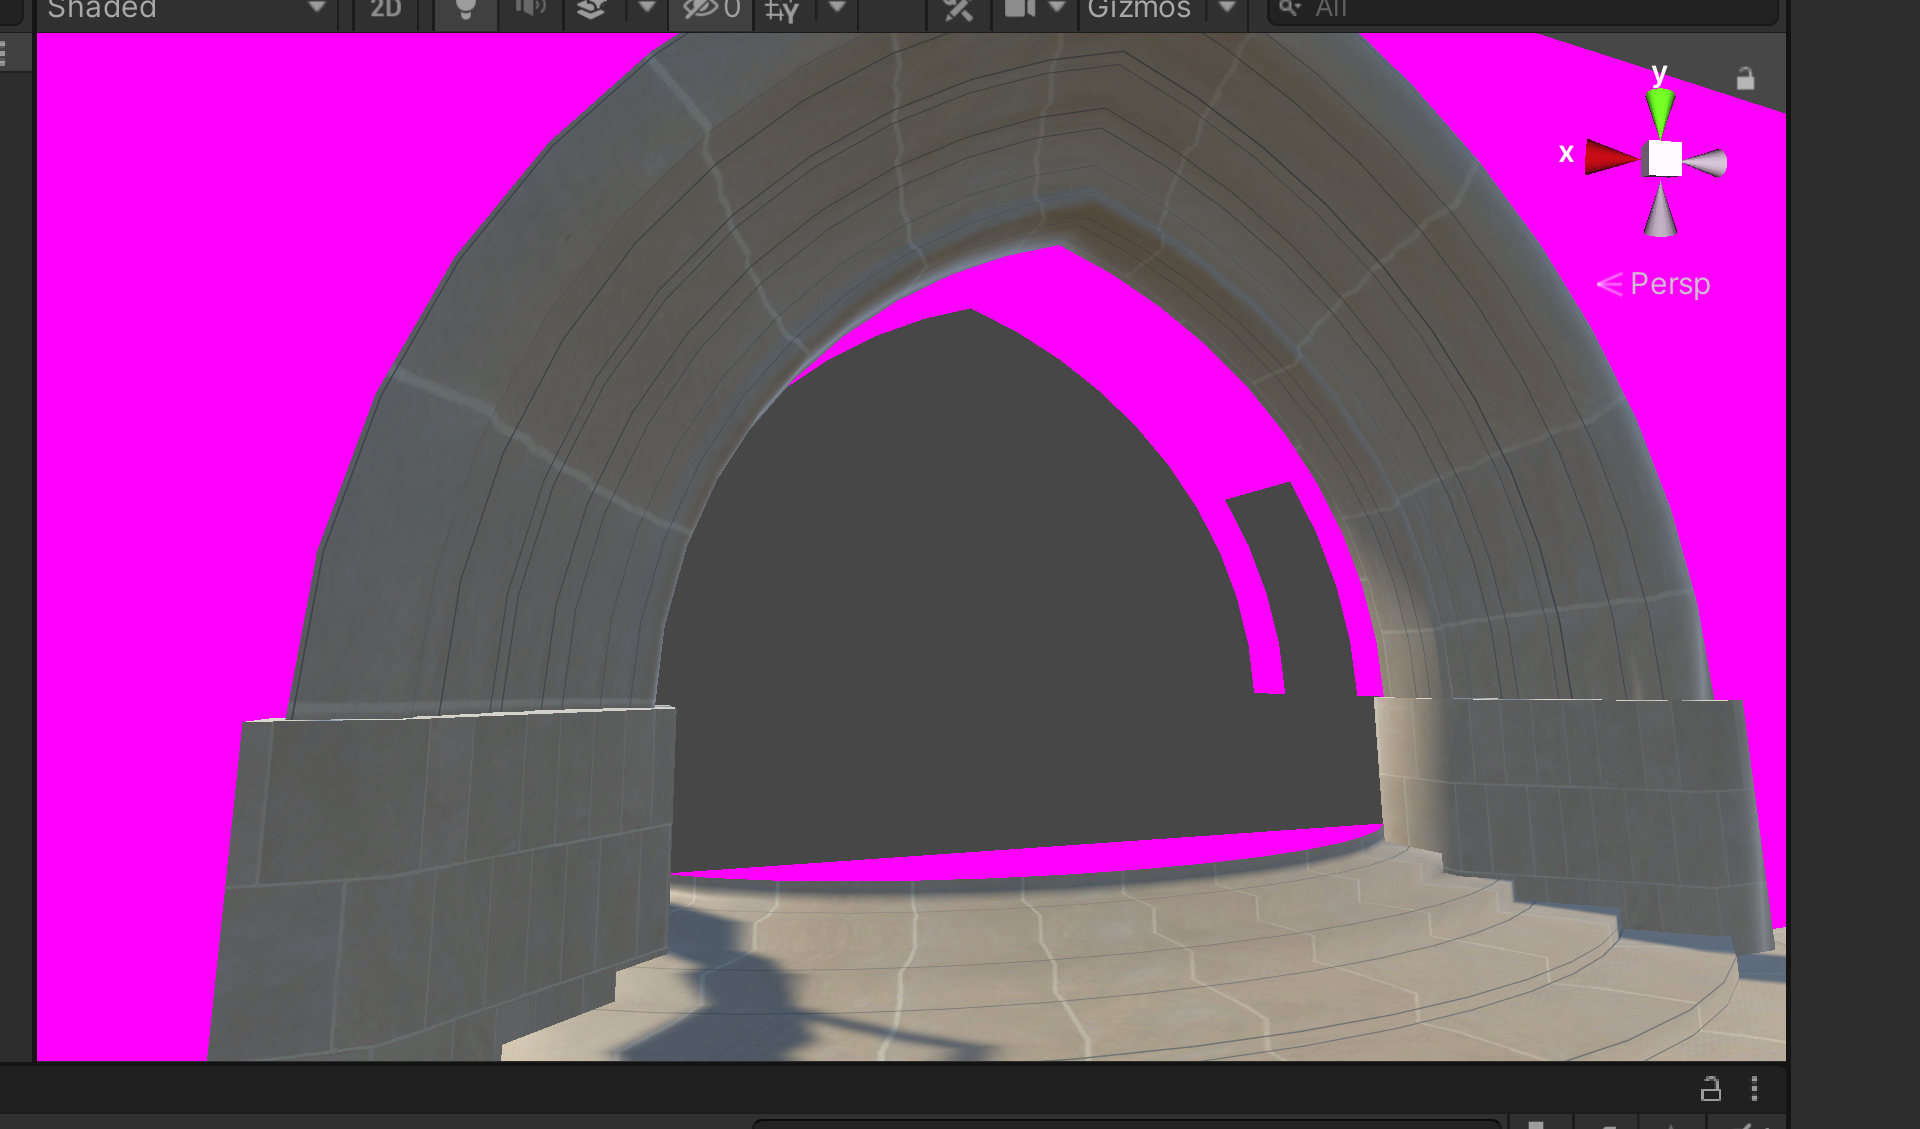
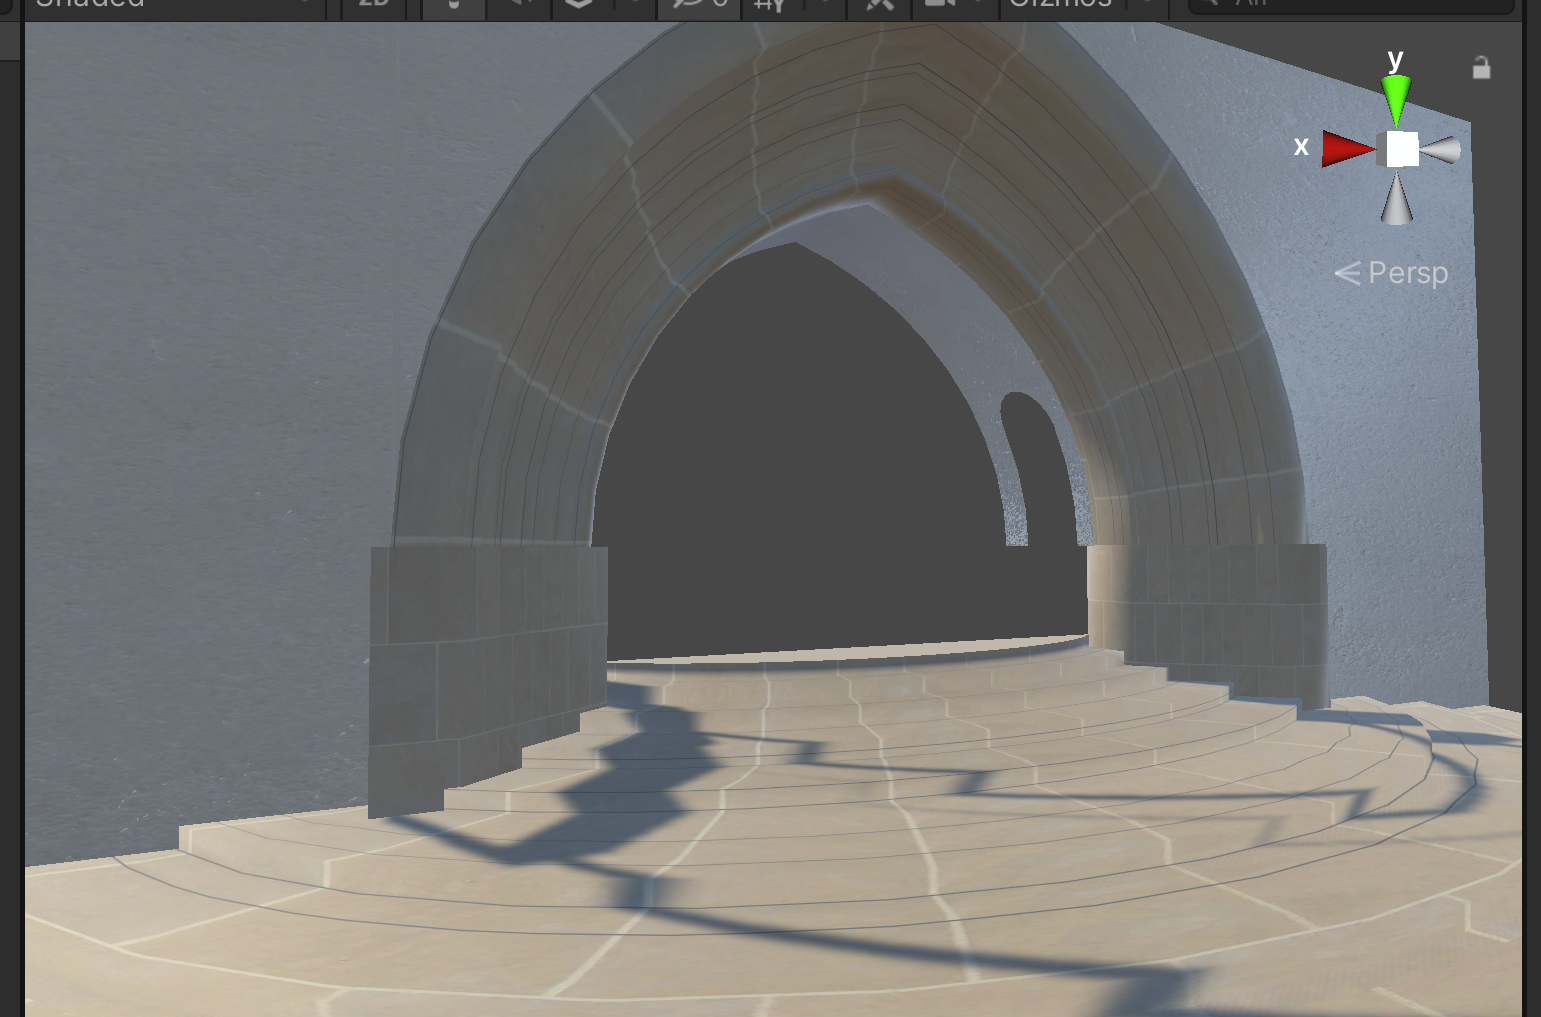
Add files via upload

diff --git a/WhiteWall1.cs b/WhiteWall1.cs
@@ -22,6 +22,7 @@ public class WhiteWall1 : MonoBehaviour
     //Define parameters needed to create object
     const float PI = 3.1415926535897931f;
     const int N = 10;
+    const int NN = 6;
     float delta_theta = (PI / 2) / N;
     public int rot = 0;
 
@@ -30,7 +31,7 @@ public class WhiteWall1 : MonoBehaviour
     GameObject gog;// = new GameObject("Plane");
     void Awake()
     {
-        gog = MakeDiscreteProceduralGrid(Pos1, Pos2, Pos3, c1, c2, c3, c4, s, t, delta_theta, N, true, mat, rot);
+        gog = MakeDiscreteProceduralGrid(Pos1, Pos2, Pos3, c1, c2, c3, c4, s, t, delta_theta, N, NN, true, mat, rot);
     }
 
 
@@ -111,7 +112,7 @@ public class WhiteWall1 : MonoBehaviour
         return y;
     }
 
-    public static GameObject MakeDiscreteProceduralGrid(float Pos1, float Pos2, float Pos3, float c1, float c2, float c3, float c4, float s, float t, float delta_theta, int N, bool collider, Material mat, int rot)
+    public static GameObject MakeDiscreteProceduralGrid(float Pos1, float Pos2, float Pos3, float c1, float c2, float c3, float c4, float s, float t, float delta_theta, int N, int NN, bool collider, Material mat, int rot)
     {
         GameObject go = new GameObject("Plane");
         MeshFilter mf = go.AddComponent(typeof(MeshFilter)) as MeshFilter;
@@ -129,9 +130,9 @@ public class WhiteWall1 : MonoBehaviour
         triangles = new int[12 * N+1000];
         uvs = new Vector2[3 * (2 * N + 1)];
         */
-        vertices = new Vector3[2 * (2 * N + 1) + 4 * ( N / 2 + 1)];
-        triangles = new int[3 * (2 * N + 1) + 3 * (2 * N + 1) + 3 * (2 * N + 1)];
-        uvs = new Vector2[2 * (2 * N + 1) + 4 * (N / 2 + 1)];
+        vertices = new Vector3[2 * (2 * N + 1) + 4 * ( N / 2 + 1) + 2 * (NN + 1)];
+        triangles = new int[3 * (2 * N + 1) + 3 * (2 * N + 1) + 3 * (2 * N + 1) + 3 * NN + 3 * NN];
+        uvs = new Vector2[2 * (2 * N + 1) + 4 * (N / 2 + 1) + 2 * (NN + 1)];
 
 
         float angle1 = -45f / 180f * PI;
@@ -143,7 +144,8 @@ public class WhiteWall1 : MonoBehaviour
         float dz = 0.0625f;
 
         int itsize1 = 0;
-
+        
+        // Main Arch
         for (int i = 0; i < 2 * N + 1; i++)
         {
             x = 0.7f * c1 * Mathf.Cos(PI - i * delta_theta);
@@ -158,6 +160,9 @@ public class WhiteWall1 : MonoBehaviour
             vertices[i + itsize1] = Arch_eq_6_A(x, z, 0.7f * c1, 0.7f * c2, angle) + POS;
         }
 
+
+        // 4 N + 2
+
         itsize1 = 2 * N + 1 + itsize1;
         for (int i = 0; i < N / 2 - 0; i++)
         {
@@ -165,14 +170,87 @@ public class WhiteWall1 : MonoBehaviour
             z = 0.0f - dz - dz - dz - dz - dz * 0.3333333f - dz * 2.5f - 2f * dz;
             vertices[i + itsize1] = Arch_eq_6_A(x, z, 0.7f * c1, 0.7f * c2, angle) + POS;
         }
+        Vector3 vertL = vertices[N / 2 - 1 + itsize1];// 4 N +2 +N/2 - 1
 
-        itsize1 = N / 2 + 1 + itsize1 - 0;
+        itsize1 = N / 2 + 0 + itsize1 - 0; // 4 N + 2 + N / 2
         for (int i = 0; i < N / 2 - 0; i++)
         {
             x = 0.7f * c1 * Mathf.Cos(PI - i * delta_theta);
             z = 0.0f - dz - dz - dz - dz - dz * 0.3333333f - dz * 2.5f - 6f * dz;
             vertices[i + itsize1] = Arch_eq_6_A(x, z, 0.7f * c1, 0.7f * c2, angle) + POS;
         }
+        Vector3 vertR = vertices[N / 2 - 1 + itsize1]; // 4 N + 2 + N / 2 + N / 2 - 1 = 5 N + 1.
+
+        //        float zCen = 0.0f - dz - dz - dz - dz - dz * 0.3333333f - dz * 2.5f - 4f * dz;
+        x = 0.7f * c1 * Mathf.Cos(PI - (N / 2 + 2) * delta_theta);
+        z = 0.0f - dz - dz - dz - dz - dz * 0.3333333f - dz * 2.5f - 4f * dz;
+        Vector3 Cen = Arch_eq_6_A(x, z, 0.7f * c1, 0.7f * c2, angle) + POS;
+        float rad = 2 * dz;
+
+        itsize1 = N / 2 + 0 + itsize1;
+
+
+        int CircIndexL = itsize1;
+        float y;
+        float x1;
+        float x2;
+        Vector3 temp;
+
+        // For Left Circle.
+        for (int i = 0; i < NN - 0; i++)
+        {
+            x1 = 0.7f * c1 * Mathf.Cos(PI - (N / 2 - 2) * delta_theta);
+            x2 = 0.7f * c1 * Mathf.Cos(PI - (N / 2 - 1) * delta_theta);
+
+            z = (2 * dz) * Mathf.Cos(0.5f * PI / (NN - 1) * i) + 0.0f - dz - dz - dz - dz - dz * 0.3333333f - dz * 2.5f - 4f * dz;
+
+            temp = Arch_eq_6_A(x1, -4f * dz - dz * 0.3333333f - dz * 2.5f - 4f * dz, 0.7f * c1, 0.7f * c2, angle);
+
+            y = (0.002f + 2f * dz) * Mathf.Sin(0.5f * PI / (float)(NN - 1) * i) + temp[1];
+
+            float factor = Mathf.Sin(0.5f * PI / (float)(NN - 1) * i);
+
+            x = x1 * (1f - factor) + x2 * (factor);
+
+            vertices[i + itsize1] = new Vector3(x, y, z) + POS;
+        }
+
+
+        itsize1 = NN + itsize1;
+        int Lindex = itsize1;
+        vertices[0 + itsize1] = vertL;
+
+
+        itsize1 = itsize1 + 1;
+
+        int CircIndexR = itsize1;
+        // For Right Circle.
+        for (int i = 0; i < NN - 0; i++)
+        {
+            x1 = 0.7f * c1 * Mathf.Cos(PI - (N / 2 - 2) * delta_theta);
+            x2 = 0.7f * c1 * Mathf.Cos(PI - (N / 2 - 1) * delta_theta);
+
+            z = (2 * dz) * Mathf.Cos(PI - 0.5f * PI / (NN - 1) * i) + 0.0f - dz - dz - dz - dz - dz * 0.3333333f - dz * 2.5f - 4f * dz;
+
+            temp = Arch_eq_6_A(x1, -4f * dz - dz * 0.3333333f - dz * 2.5f - 4f * dz, 0.7f * c1, 0.7f * c2, angle);
+
+            y = (0.002f + 2f * dz) * Mathf.Sin(0.5f * PI / (float)(NN - 1) * i) + temp[1];
+
+            float factor = Mathf.Sin(0.5f * PI / (float)(NN - 1) * i);
+
+            x = x1 * (1f - factor) + x2 * (factor);
+
+            vertices[i + itsize1] = new Vector3(x, y, z) + POS;
+        }
+
+        itsize1 = NN + itsize1;
+        int Rindex = itsize1;
+        vertices[0 + itsize1] = vertR; // Correct this to -1
+
+
+
+
+
 
 
         // First Top arch part (Right Side)
@@ -184,7 +262,7 @@ public class WhiteWall1 : MonoBehaviour
             triangles[i3 + 2] = i + 1;
         }
 
-        int skip = 3 * (2 * N - N / 2 + 1);
+        int skip = 3 * (2 * N - N / 2 + 1 + 0);//+1?
         for (int i = N / 2 - 1; i < 2 * N + 0; i++)
         {
             int i3 = 3 * (i - (N / 2 - 1));
@@ -193,7 +271,7 @@ public class WhiteWall1 : MonoBehaviour
             triangles[i3 + 2 + skip] = 2 * N + i + 2;
         }
 
-
+        //
         skip = 3 * (2 * N - N / 2 + 1) + skip;
         for (int i = 0; i < N / 2 - 1; i++)
         {
@@ -211,23 +289,43 @@ public class WhiteWall1 : MonoBehaviour
             triangles[i3 + 1 + skip] = i + 0;
             triangles[i3 + 2 + skip] = 4 * N + i + 3;
         }
-
-        skip = 3 * ( N / 2 - 0) + skip;
+        //
+        
+        skip = 3 * ( N / 2 - 1) + skip;
         for (int i = 0; i < N / 2 - 1; i++)
         {
             int i3 = 3 * i;
-            triangles[i3 + skip] = 4 * N + N / 2 + N / 2 - 2 + i;
+            triangles[i3 + skip] = 5 * N - 2 + i - 1;
             triangles[i3 + 1 + skip] = 2 * N + i + 1;
             triangles[i3 + 2 + skip] = 2 * N + i + 2;
         }
 
-        skip = 3 * (N / 2 - 0) + skip;
+        skip = 3 * (N / 2 - 1) + skip;
         for (int i = 0; i < N / 2 - 1; i++)
         {
             int i3 = 3 * i;
-            triangles[i3 + skip]     = 4 * N + N / 2 + N / 2 - 2 + i + 1;
-            triangles[i3 + 1 + skip] = 4 * N + N / 2 + N / 2 - 2 + i + 0;
+            triangles[i3 + skip]     = 5 * N - 2 + i + 0;
+            triangles[i3 + 1 + skip] = 5 * N - 2 + i - 1;
             triangles[i3 + 2 + skip] = 2 * N + i + 2;
+        }
+        
+        //
+        skip = 3 * (N / 2 - 1) + skip;
+        for (int i = 0; i < NN; i++)
+        {
+            int i3 = 3 * i;
+            triangles[i3 + skip] = CircIndexL + i + 1;
+            triangles[i3 + 1 + skip] = Lindex;
+            triangles[i3 + 2 + skip] = CircIndexL + i + 0;
+        }
+        
+        skip = 3 * NN + skip;
+        for (int i = 0; i < NN; i++)
+        {
+            int i3 = 3 * i;
+            triangles[i3 + skip] = CircIndexR + i + 0;
+            triangles[i3 + 1 + skip] = Rindex;
+            triangles[i3 + 2 + skip] = CircIndexR + i + 1;
         }
 
 
@@ -238,12 +336,86 @@ public class WhiteWall1 : MonoBehaviour
             + 0.05f * c1 + Mathf.Sqrt(Mathf.Pow(dz * 0.33333f, 2) + Mathf.Pow(0.0125f * c1, 2)) + 0.0125f * c1 + Mathf.Sqrt(Mathf.Pow(dz * 0.33333f, 2) + Mathf.Pow(0.0125f * c1, 2))
             + 0.025f * c1 + 2f * dz;
 
+        for (int i = 0; i < 2 * N + 1; i++)
+        {
+//            x = (Mathf.Cos(PI - (float)i * delta_theta) + 1.000005f) * 0.49995f;
+            x = (float)i / (float)(2.00001f * N);
+            uvs[i] = new Vector2(x, 0f);
+//            uvs[i] = new Vector2(0f, x);
+        }
+        int uvIndex = 2 * N + 1;
+        for (int i = 0; i < 2 * N + 1; i++)
+        {
+//            x = (Mathf.Cos(PI - (float)i * delta_theta) + 1.000005f) * 0.49995f;
+            x = (float)i / (float)(2.00001f * N);
+            uvs[i + uvIndex] = new Vector2(x, 0.25f);
+        }
+        uvIndex = 2 * N + 1 + uvIndex;
+
+        float saveUV = ((float) N / 2f)/ ((float)N * 2f);
+
+        
+        for (int i = 0; i < N / 2; i++)
+        {
+            //            x = (Mathf.Cos(PI - (float)i * delta_theta) + 1.000005f) * 0.49995f;
+            //x = (float)(i + 1f + 1.5f * N) / (float)(2.00001f * N);
+            x = (float)(i) / (float)(2.00001f * N);
+            //            uvs[i + uvIndex] = new Vector2(x, 0.1875f);
+            uvs[i + uvIndex] = new Vector2(x, 0.0625f);
+        }
 
 
 
 
+        uvIndex = N / 2 + uvIndex + 0;
+
+        float interpx2 = (4f) / (2.00001f * (float)N);
+        float interpx1 = (3f) / (2.00001f * (float)N);
 
 
+        for (int i = 0; i < N / 2; i++)
+        {
+            //            x = (Mathf.Cos(PI - (float)i * delta_theta) + 1.000005f) * 0.49995f;
+            //x = (float)(i + 1f + 1.5f * N) / (float)(2.00001f * N);
+            x = (float)(i) / (float)(2.00001f * N);
+            //            uvs[i + uvIndex] = new Vector2(x, 0.0625f);
+            uvs[i + uvIndex] = new Vector2(x, 0.1875f);
+        }
+        uvIndex = N / 2 + uvIndex + 0;
+
+        uvs[0 + uvIndex] = new Vector2(interpx1 * 1.0f + interpx2 * 0.0f , 0.0625f);
+        uvs[1 + uvIndex] = new Vector2(interpx1 * 0.67f + interpx2 * 0.33f  , 0.125f * 0.1f + 0.0625f * 0.9f);
+        uvs[2 + uvIndex] = new Vector2(interpx1 * 0.45f + interpx2 * 0.55f  , 0.125f * 0.25f + 0.0625f * 0.75f);
+        uvs[3 + uvIndex] = new Vector2(interpx1 * 0.25f + interpx2 * 0.75f  , 0.125f * 0.5f + 0.0625f * 0.5f);
+        uvs[4 + uvIndex] = new Vector2(interpx1 * 0.1f + interpx2 * 0.9f    , 0.125f * 0.77f + 0.0625f * 0.23f);
+        uvs[5 + uvIndex] = new Vector2(interpx1 * (0.0f) + interpx2 * 1.0f , 0.125f * 1f + 0.0625f * 0f);
+
+        uvs[6 + uvIndex] = new Vector2(interpx1 * (0.0f) + interpx2 * 1.0f, 0.0625f);
+
+
+        uvs[7 + uvIndex] = new Vector2(interpx1 * 1.0f + interpx2 * 0.0f, 0.1875f);
+        uvs[8 + uvIndex] = new Vector2(interpx1 * 0.67f + interpx2 * 0.33f, 0.125f * 0.1f + 0.1875f * 0.9f);
+        uvs[9 + uvIndex] = new Vector2(interpx1 * 0.45f + interpx2 * 0.55f, 0.125f * 0.25f + 0.1875f * 0.75f);
+        uvs[10 + uvIndex] = new Vector2(interpx1 * 0.25f + interpx2 * 0.75f, 0.125f * 0.5f + 0.1875f * 0.5f);
+        uvs[11 + uvIndex] = new Vector2(interpx1 * 0.1f + interpx2 * 0.9f, 0.125f * 0.77f + 0.1875f * 0.23f);
+        uvs[12 + uvIndex] = new Vector2(interpx1 * 0.0f + interpx2 * 1.0f, 0.125f * 1f + 0.1875f * 0f);
+
+        uvs[13 + uvIndex] = new Vector2(interpx1 * (0.0f) + interpx2 * 1.0f, 0.1875f);
+
+        /*
+        uvs[6 + uvIndex] = new Vector2(interpx1 * 1f + interpx2 * 0f       , 0.1875f);
+        uvs[7 + uvIndex] = new Vector2(interpx1 * 0.8f + interpx2 * 0.2f   , 0.125f * 0.2f + 0.1875f * 0.8f);
+        uvs[8 + uvIndex] = new Vector2(interpx1 * 0.65f + interpx2 * 0.35f , 0.125f * 0.35f + 0.1875f * 0.65f);
+        uvs[9 + uvIndex] = new Vector2(interpx1 * 0.35f + interpx2 * 0.65f , 0.125f * 0.65f + 0.1875f * 0.35f);
+        uvs[10 + uvIndex] = new Vector2(interpx1 * 0.2f + interpx2 * 0.8f  , 0.125f * 0.8f + 0.1875f * 0.2f);
+        uvs[11 + uvIndex] = new Vector2(interpx1 * 0f + interpx2 * 1f      , 0.125f * 1f + 0.1875f * 0f);
+
+        uvs[0 + uvIndex] = new Vector2(interpx1 * (0.0f) + interpx2 * 1.0f, 0.0625f);
+
+        uvIndex = uvIndex + 1;
+         
+         
+         */
         m.vertices = vertices;
         m.triangles = triangles;
         m.uv = uvs;
